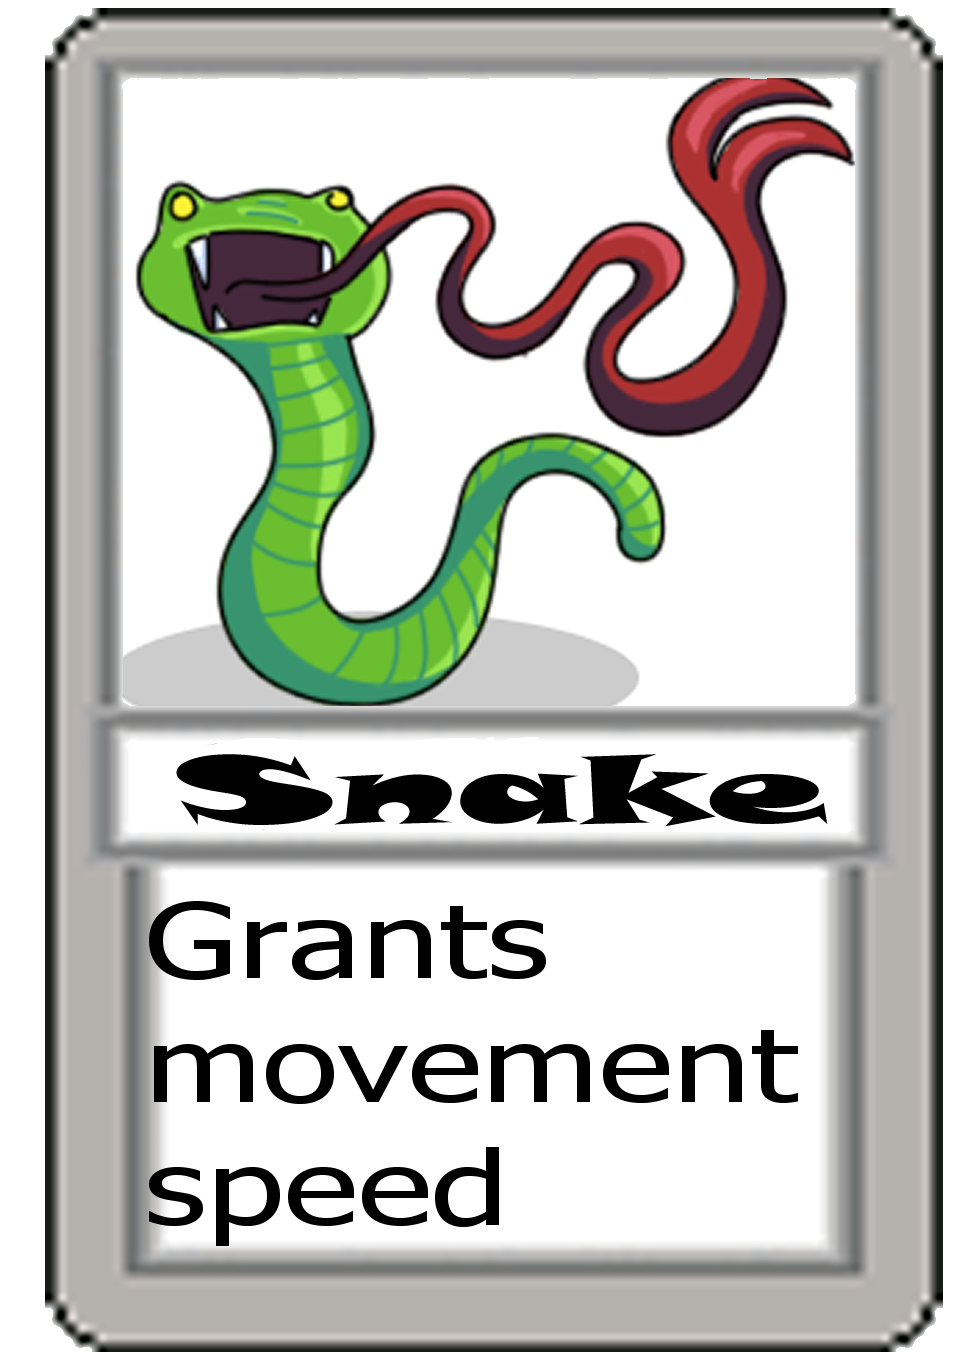
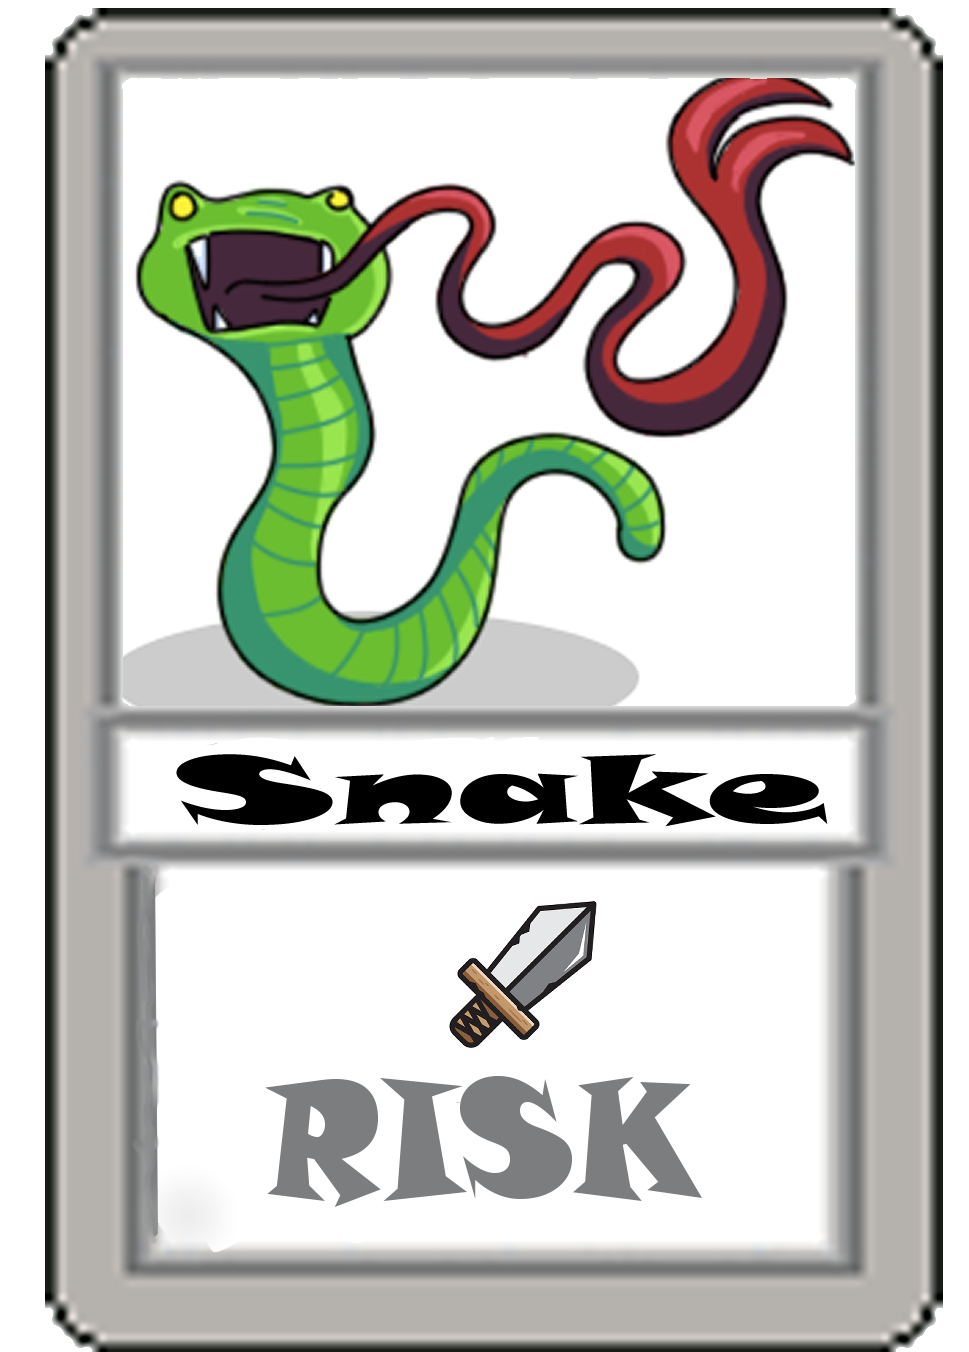
Adding rest of card logic

Changed region(s): [[0.1548, 0.6524, 0.8359, 0.932]]

diff --git a/Assets/Scripts/CardManager.cs b/Assets/Scripts/CardManager.cs
@@ -136,12 +136,13 @@ public class CardManager : MonoBehaviour
         GameObject playerObject = GameObject.FindGameObjectWithTag("Player");
         if (playerObject != null) {
             PlayerHealth playerHealth = playerObject.GetComponent<PlayerHealth>();
-            
-            if (playerHealth != null)
-                playerHealth.TakeDamage(6.0f);
 
+            float randomDamage = Random.Range(0f, 6f);
+
+            if (playerHealth != null)
+                playerHealth.TakeDamage(randomDamage);
         }
-        Debug.Log("Card Snake used: Hit for 6 HP!");
+        Debug.Log("Card Snake used: gamble for HP!");
     }
 
     void MassDestruction()
